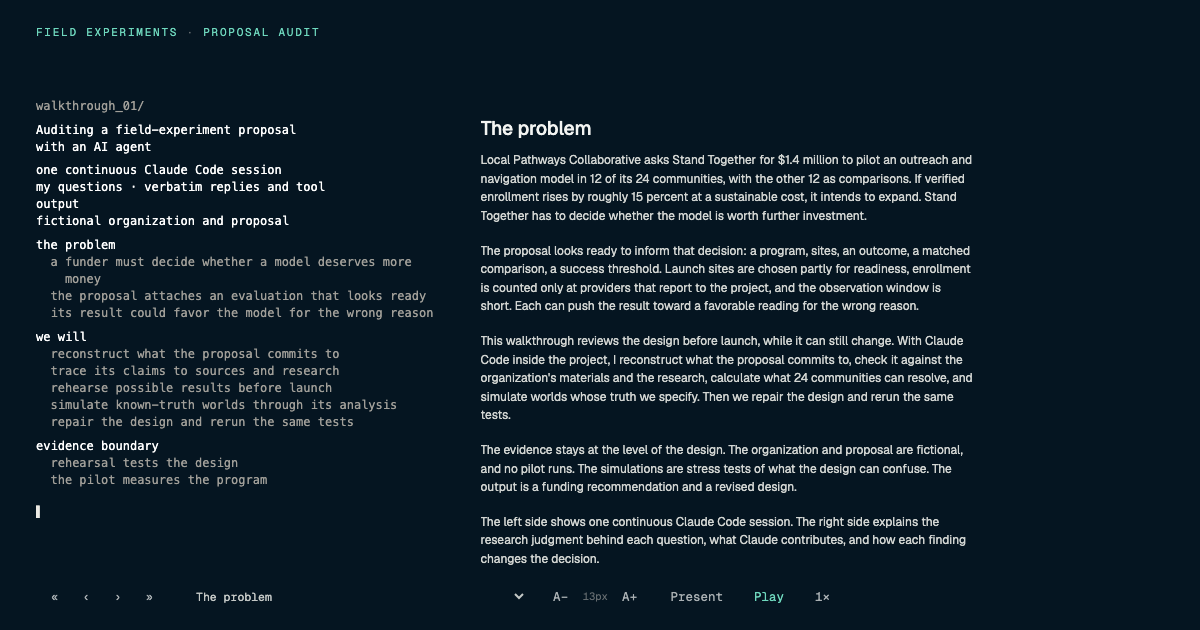
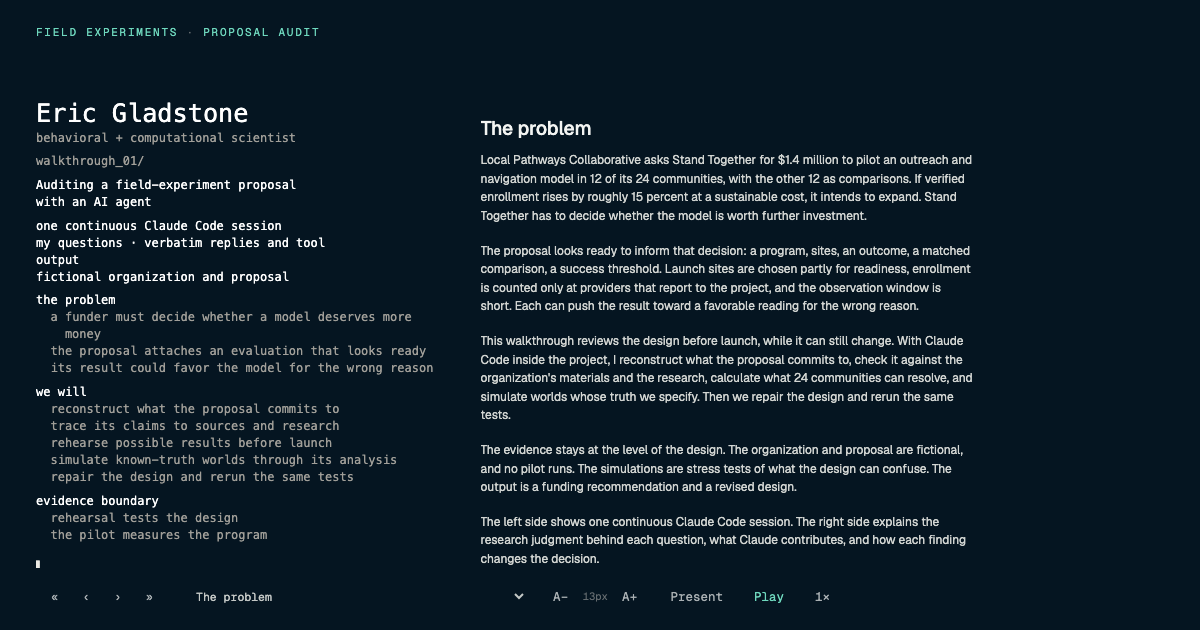
Opening card: restore name and 'behavioral + computational scientist'

Changed region(s): [[0.0308, 0.1508, 0.37, 0.8746]]

diff --git a/public/app.js b/public/app.js
@@ -149,7 +149,7 @@
 
   // ---------- opening screens: page-authored introduction inside the console (not session output)
   const INTRO = {
-    o0: `<div class="prel intro"><div class="pl line dim2" style="--d:200ms">walkthrough_01/</div><div class="pl gap" style="--d:430ms"></div><div class="pl line" style="--d:660ms">Auditing a field-experiment proposal</div><div class="pl line" style="--d:890ms">with an AI agent</div><div class="pl gap" style="--d:1120ms"></div><div class="pl line" style="--d:1350ms">one continuous Claude Code session</div><div class="pl line" style="--d:1580ms">my questions · verbatim replies and tool output</div><div class="pl line" style="--d:1810ms">fictional organization and proposal</div><div class="pl gap" style="--d:2040ms"></div><div class="pl line" style="--d:2270ms">the problem</div><div class="pl tree" style="--d:2500ms">  a funder must decide whether a model deserves more money</div><div class="pl tree" style="--d:2730ms">  the proposal attaches an evaluation that looks ready</div><div class="pl tree" style="--d:2960ms">  its result could favor the model for the wrong reason</div><div class="pl gap" style="--d:3190ms"></div><div class="pl line" style="--d:3420ms">we will</div><div class="pl tree" style="--d:3650ms">  reconstruct what the proposal commits to</div><div class="pl tree" style="--d:3880ms">  trace its claims to sources and research</div><div class="pl tree" style="--d:4110ms">  rehearse possible results before launch</div><div class="pl tree" style="--d:4340ms">  simulate known-truth worlds through its analysis</div><div class="pl tree" style="--d:4570ms">  repair the design and rerun the same tests</div><div class="pl gap" style="--d:4800ms"></div><div class="pl line" style="--d:5030ms">evidence boundary</div><div class="pl tree" style="--d:5260ms">  rehearsal tests the design</div><div class="pl tree" style="--d:5490ms">  the pilot measures the program</div><div class="pl cursor" style="--d:5920ms">▌</div></div>`,
+    o0: `<div class="prel intro"><div class="pl big" style="--d:100ms">Eric Gladstone</div><div class="pl line dim2" style="--d:150ms">behavioral + computational scientist</div><div class="pl gap" style="--d:180ms"></div><div class="pl line dim2" style="--d:200ms">walkthrough_01/</div><div class="pl gap" style="--d:430ms"></div><div class="pl line" style="--d:660ms">Auditing a field-experiment proposal</div><div class="pl line" style="--d:890ms">with an AI agent</div><div class="pl gap" style="--d:1120ms"></div><div class="pl line" style="--d:1350ms">one continuous Claude Code session</div><div class="pl line" style="--d:1580ms">my questions · verbatim replies and tool output</div><div class="pl line" style="--d:1810ms">fictional organization and proposal</div><div class="pl gap" style="--d:2040ms"></div><div class="pl line" style="--d:2270ms">the problem</div><div class="pl tree" style="--d:2500ms">  a funder must decide whether a model deserves more money</div><div class="pl tree" style="--d:2730ms">  the proposal attaches an evaluation that looks ready</div><div class="pl tree" style="--d:2960ms">  its result could favor the model for the wrong reason</div><div class="pl gap" style="--d:3190ms"></div><div class="pl line" style="--d:3420ms">we will</div><div class="pl tree" style="--d:3650ms">  reconstruct what the proposal commits to</div><div class="pl tree" style="--d:3880ms">  trace its claims to sources and research</div><div class="pl tree" style="--d:4110ms">  rehearse possible results before launch</div><div class="pl tree" style="--d:4340ms">  simulate known-truth worlds through its analysis</div><div class="pl tree" style="--d:4570ms">  repair the design and rerun the same tests</div><div class="pl gap" style="--d:4800ms"></div><div class="pl line" style="--d:5030ms">evidence boundary</div><div class="pl tree" style="--d:5260ms">  rehearsal tests the design</div><div class="pl tree" style="--d:5490ms">  the pilot measures the program</div><div class="pl cursor" style="--d:5920ms">▌</div></div>`,
     o1: `<div class="prel"><div class="pl big" style="--d:200ms">A proposal can be complete</div><div class="pl big" style="--d:700ms">and the experiment still unsettled.</div><div class="pl gap" style="--d:1300ms"></div><div class="pl line" style="--d:1600ms">What changes?</div><div class="pl line" style="--d:2000ms">For whom?</div><div class="pl line" style="--d:2400ms">Compared with what?</div><div class="pl line" style="--d:2800ms">Measured how?</div><div class="pl line" style="--d:3200ms">Enough to decide what?</div><div class="pl cursor" style="--d:3800ms">▌</div></div>`,
     o2: `<div class="prel"><div class="pl big" style="--d:200ms">Local Pathways Access Pilot</div><div class="pl gap" style="--d:700ms"></div><div class="pl line" style="--d:900ms">24 communities, 12 launch, 12 comparison</div><div class="pl line" style="--d:1300ms">outcome: verified enrollment</div><div class="pl gap" style="--d:1900ms"></div><div class="pl line" style="--d:2300ms">the campaign worked</div><div class="pl neq" style="--d:2800ms">≠</div><div class="pl line" style="--d:3300ms">the model should scale</div><div class="pl gap" style="--d:3900ms"></div><div class="pl line dim2" style="--d:4300ms">Evidence for what?</div><div class="pl cursor" style="--d:4900ms">▌</div></div>`,
     o3: `<div class="prel"><div class="pl line" style="--d:200ms">Suppose the result is positive.</div><div class="pl line dim2" style="--d:700ms">What would we actually know?</div><div class="pl gap" style="--d:1300ms"></div><div class="pl line" style="--d:1600ms">Suppose there is no detectable effect.</div><div class="pl line dim2" style="--d:2100ms">What would that mean?</div><div class="pl gap" style="--d:2600ms"></div><div class="pl tree" style="--d:2900ms">  no effect?</div><div class="pl tree" style="--d:3300ms">  weak implementation?</div><div class="pl tree" style="--d:3700ms">  wrong outcome?</div><div class="pl tree" style="--d:4100ms">  too short a window?</div><div class="pl tree" style="--d:4500ms">  too little precision?</div><div class="pl gap" style="--d:5100ms"></div><div class="pl line" style="--d:5500ms">If several explanations remain plausible,</div><div class="pl line" style="--d:6000ms">the design is not finished.</div><div class="pl cursor" style="--d:6600ms">▌</div></div>`,

diff --git a/public/index.html b/public/index.html
@@ -16,7 +16,7 @@
 <meta name="twitter:card" content="summary_large_image">
 
 <link rel="icon" href="data:,">
-<link rel="stylesheet" href="style.css?v=1790699288">
+<link rel="stylesheet" href="style.css?v=1790706149">
 </head>
 <body>
 <div class="screen">
@@ -66,9 +66,9 @@
   </aside>
 </main>
 </div>
-<script src="vendor/marked.umd.js?v=1790699288"></script>
-<script src="data/session.js?v=1790699288"></script>
-<script src="data/walkthrough.js?v=1790699288"></script>
-<script src="app.js?v=1790699288"></script>
+<script src="vendor/marked.umd.js?v=1790706149"></script>
+<script src="data/session.js?v=1790706149"></script>
+<script src="data/walkthrough.js?v=1790706149"></script>
+<script src="app.js?v=1790706149"></script>
 </body>
 </html>

diff --git a/public/style.css b/public/style.css
@@ -514,3 +514,4 @@ body.prelude #prose{pointer-events:none}
 .prel.intro:has(> .pl:nth-child(20)) .pl.gap{height:.9em}
 .prel.intro:has(> .pl:nth-child(20)) .pl{line-height:1.42;font-size:max(12px,1.55cqi)}
 .prel.intro:has(> .pl:nth-child(20)) .pl.gap{height:.55em}
+.prel.intro:has(> .pl:nth-child(20)) .pl.big{font-size:clamp(24px,2.1vw,34px);line-height:1.25}
